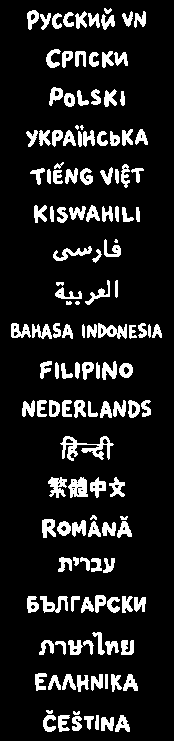
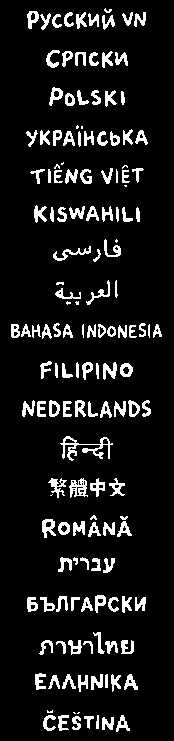
Preserve fine strokes in language buttons

diff --git a/Tests/StardewTranslationInstallerTests/InstallerCoreTests.swift b/Tests/StardewTranslationInstallerTests/InstallerCoreTests.swift
@@ -341,25 +341,25 @@ struct InstallerCoreTests {
         }
 
         let unifiedButtonHashes = [
[38 lines of base64/hex data omitted]
         ]
         for (buttonPath, expectedHash) in unifiedButtonHashes {
             try expect(try pngDimensions(buttonPath) == (174, 78))
@@ -408,7 +408,7 @@ struct InstallerCoreTests {
         try expect(try pngDimensions(vietnameseButtonPath) == (174, 78))
         try expect(
             try DependencyInstaller.sha256(of: payload.appendingPathComponent(vietnameseButtonPath))
[2 lines of base64/hex data omitted]
         )
         let vietnameseTitlePath = "assets/title/TitleButtons-vietnamese.png"
         try expect(try pngDimensions(vietnameseTitlePath) == (400, 655))
@@ -421,7 +421,7 @@ struct InstallerCoreTests {
         try expect(try pngDimensions(hindiButtonPath) == (174, 78))
         try expect(
             try DependencyInstaller.sha256(of: payload.appendingPathComponent(hindiButtonPath))
[2 lines of base64/hex data omitted]
         )
         let hindiTitlePath = "assets/title/TitleButtons-hindi.png"
         try expect(try pngDimensions(hindiTitlePath) == (400, 655))
@@ -434,7 +434,7 @@ struct InstallerCoreTests {
         try expect(try pngDimensions(swahiliButtonPath) == (174, 78))
         try expect(
             try DependencyInstaller.sha256(of: payload.appendingPathComponent(swahiliButtonPath))
[2 lines of base64/hex data omitted]
         )
         let swahiliTitlePath = "assets/title/TitleButtons-swahili.png"
         try expect(try pngDimensions(swahiliTitlePath) == (400, 655))
@@ -447,7 +447,7 @@ struct InstallerCoreTests {
         try expect(try pngDimensions(indonesianButtonPath) == (174, 78))
         try expect(
             try DependencyInstaller.sha256(of: payload.appendingPathComponent(indonesianButtonPath))
[2 lines of base64/hex data omitted]
         )
         let indonesianTitlePath = "assets/title/TitleButtons-indonesian.png"
         try expect(try pngDimensions(indonesianTitlePath) == (400, 655))
@@ -461,7 +461,7 @@ struct InstallerCoreTests {
         try expect(try pngDimensions(filipinoButtonPath) == (174, 78))
         try expect(
             try DependencyInstaller.sha256(of: payload.appendingPathComponent(filipinoButtonPath))
[2 lines of base64/hex data omitted]
         )
         let filipinoTitlePath = "assets/title/TitleButtons-filipino.png"
         try expect(try pngDimensions(filipinoTitlePath) == (400, 655))
@@ -485,7 +485,7 @@ struct InstallerCoreTests {
         try expect(try pngDimensions(romanianButtonPath) == (174, 78))
         try expect(
             try DependencyInstaller.sha256(of: payload.appendingPathComponent(romanianButtonPath))
[2 lines of base64/hex data omitted]
         )
         let romanianTitlePath = "assets/title/TitleButtons-romanian.png"
         try expect(try pngDimensions(romanianTitlePath) == (400, 655))
@@ -499,7 +499,7 @@ struct InstallerCoreTests {
         try expect(
             try DependencyInstaller.sha256(
                 of: payload.appendingPathComponent("assets/button-persian.png")
[2 lines of base64/hex data omitted]
         )
         try expect(
             try DependencyInstaller.sha256(
@@ -512,7 +512,7 @@ struct InstallerCoreTests {
         try expect(
             try DependencyInstaller.sha256(
                 of: payload.appendingPathComponent("assets/button-arabic.png")
[2 lines of base64/hex data omitted]
         )
         try expect(
             try DependencyInstaller.sha256(
@@ -521,7 +521,7 @@ struct InstallerCoreTests {
         )
 
         let bulgarianAssetHashes = [
[5 lines of base64/hex data omitted]
@@ -540,7 +540,7 @@ struct InstallerCoreTests {
         try expect(
             try DependencyInstaller.sha256(
                 of: payload.appendingPathComponent("assets/button-thai.png")
[2 lines of base64/hex data omitted]
         )
         try expect(
             try DependencyInstaller.sha256(
@@ -563,7 +563,7 @@ struct InstallerCoreTests {
         try expect(
             try DependencyInstaller.sha256(
                 of: payload.appendingPathComponent("assets/button-greek.png")
[2 lines of base64/hex data omitted]
         )
         try expect(
             try DependencyInstaller.sha256(
@@ -572,7 +572,7 @@ struct InstallerCoreTests {
         )
 
         let czechAssetHashes = [
[5 lines of base64/hex data omitted]

diff --git a/Scripts/extract-reference-language-labels.py b/Scripts/extract-reference-language-labels.py
@@ -49,6 +49,7 @@ LABELS = (
 NATIVE_WIDTH = 174
 NATIVE_HEIGHT = 39
 REFERENCE_SCALE = 3.1
+REDUCTION_THRESHOLD = 224
 
 
 def red_ink_mask(crop: Image.Image) -> Image.Image:
@@ -125,8 +126,13 @@ def native_mask(source: Image.Image, spec: LabelCrop) -> Image.Image:
         max(1, round(mask.width / REFERENCE_SCALE)),
         max(1, round(mask.height / REFERENCE_SCALE)),
     )
-    reduced = mask.resize(target_size, Image.Resampling.LANCZOS)
-    reduced = reduced.point(lambda value: 255 if value >= 112 else 0)
+    # Area reduction preserves the amount of ink in each native pixel. A high
+    # coverage threshold keeps the small counters and stroke gaps visible once
+    # Stardew scales the atlas with nearest-neighbour sampling.
+    reduced = mask.resize(target_size, Image.Resampling.BOX)
+    reduced = reduced.point(
+        lambda value: 255 if value >= REDUCTION_THRESHOLD else 0
+    )
     if reduced.width > 155 or reduced.height > 28:
         raise ValueError(
             f"Extracted label is too large for {spec.filename}: {reduced.size}"
